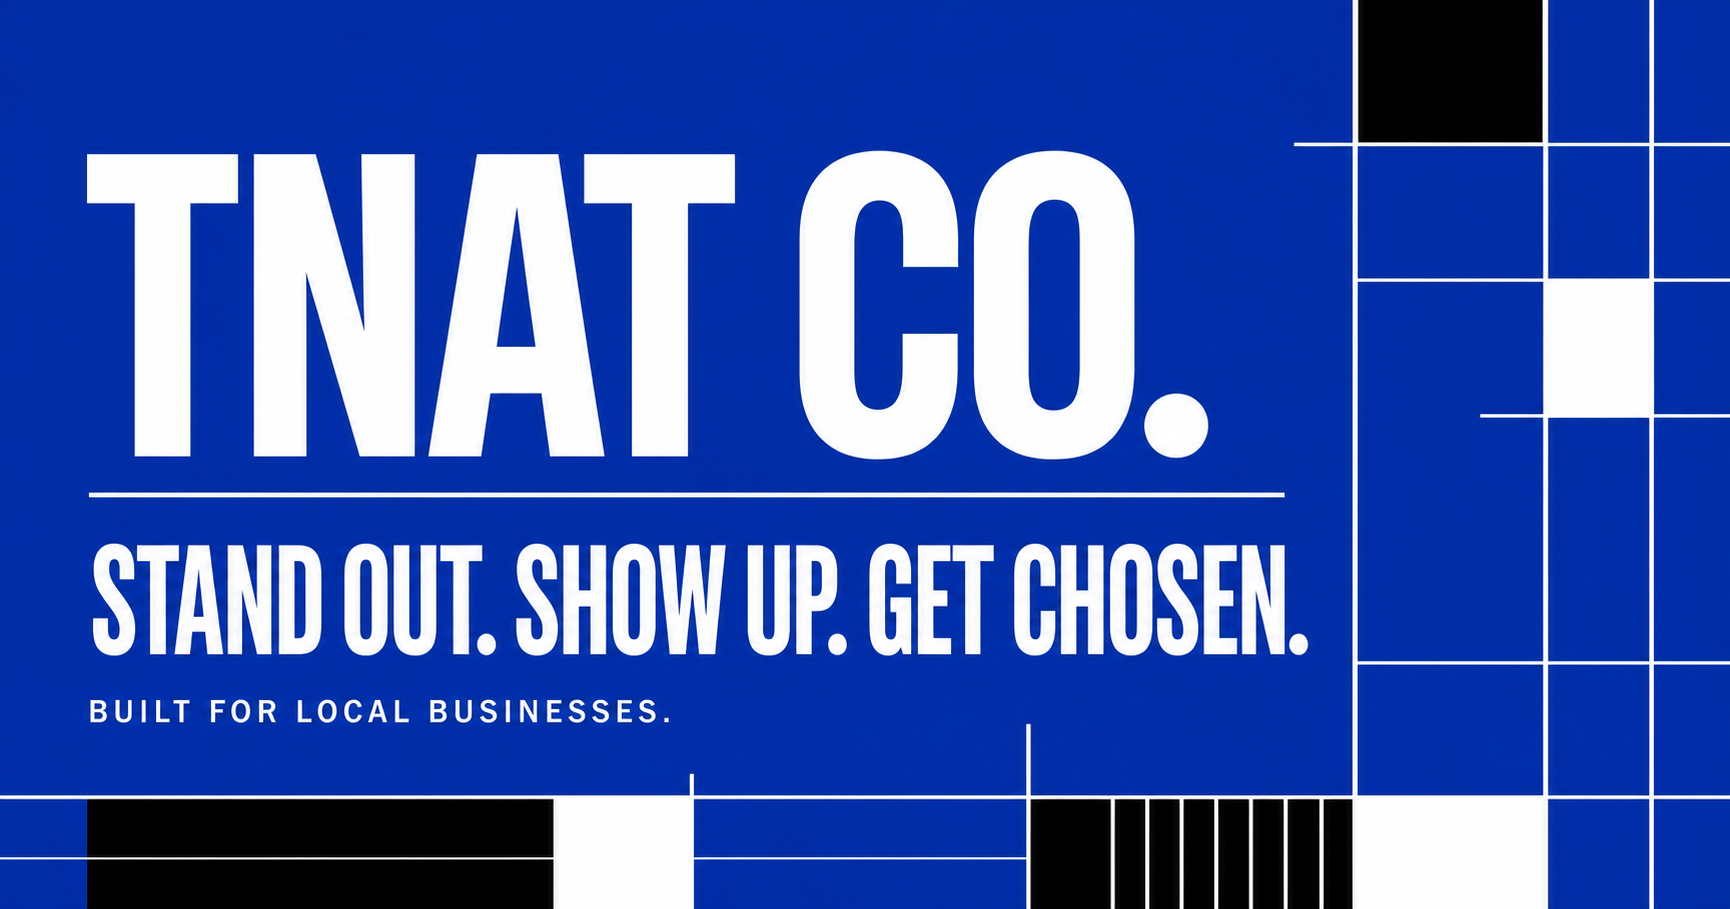
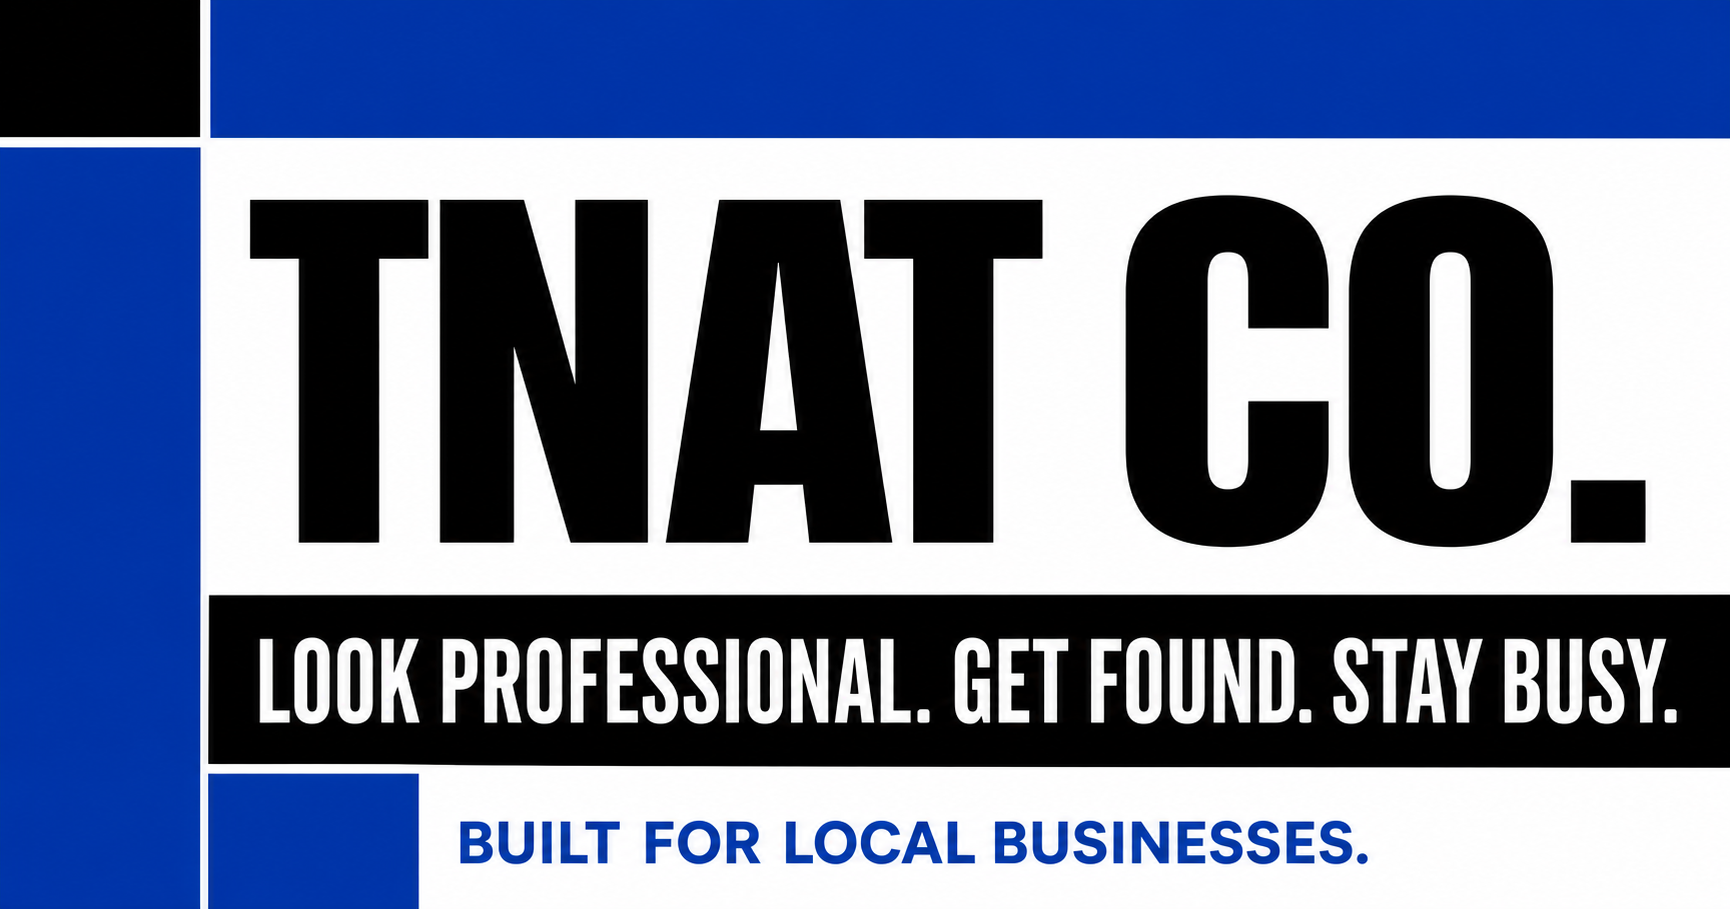
Refine TNAT content and service visuals

diff --git a/app/globals.css b/app/globals.css
@@ -23,7 +23,7 @@ img { display: block; max-width: 100%; }
 .topline strong { color: var(--blue-soft); font-weight: 800; }
 
 .site-header { height: 84px; padding: 0 4vw; display: grid; grid-template-columns: minmax(250px, 1fr) auto minmax(250px, 1fr); align-items: center; border-bottom: 1px solid var(--line); background: rgba(255,255,255,.95); position: sticky; top: 0; z-index: 30; backdrop-filter: blur(16px); }
-.brand { width: 250px; height: 76px; overflow: visible; display: flex; align-items: center; }
+.brand { width: 250px; height: 76px; overflow: hidden; display: flex; align-items: center; }
 .brand img { width: 250px; max-width: none; transform: none; }
 nav { display: flex; align-items: center; gap: 34px; font-size: 11px; font-weight: 700; text-transform: uppercase; letter-spacing: .11em; }
 nav a { padding: 12px 0 10px; border-bottom: 1px solid transparent; }
@@ -101,25 +101,26 @@ nav a:hover { border-color: var(--black); }
 .graphic-browser > div span { margin-left: 8px; color: #777; font-size: 7px; }
 .graphic-browser b { padding: 30px 20px 10px; display: block; font-size: 24px; line-height: .95; letter-spacing: -.05em; }
 .graphic-browser em { margin-left: 20px; color: var(--blue); font-size: 7px; font-style: normal; font-weight: 800; letter-spacing: .14em; }
-.graphic-local { padding: 20px; display: grid; grid-template-rows: 36px 1fr 54px; gap: 8px; }
-.local-search-bar { position: relative; z-index: 3; padding: 0 12px; display: grid; grid-template-columns: 18px 1fr auto; align-items: center; gap: 8px; border: 1px solid #aaa; background: white; box-shadow: 6px 6px 0 var(--blue); }
+.graphic-local { padding: 15px; display: flex; flex-direction: column; gap: 7px; }
+.local-search-bar { min-height: 35px; position: relative; z-index: 3; padding: 0 10px; display: grid; grid-template-columns: 18px 1fr auto; align-items: center; gap: 8px; border: 1px solid #aaa; background: white; box-shadow: 5px 5px 0 var(--blue); }
 .local-search-bar i { color: var(--blue); font-size: 15px; font-style: normal; font-weight: 800; }
 .local-search-bar span { color: #5f5f5c; font-size: 8px; font-weight: 700; letter-spacing: .04em; }
-.local-search-bar b { width: 21px; height: 21px; display: grid; place-items: center; background: var(--black); color: white; font-size: 8px; }
-.local-map { position: relative; overflow: hidden; border: 1px solid #bbb; background: #dfe5eb; }
-.local-map::before { content: ""; position: absolute; inset: -30px; background-image: linear-gradient(30deg, transparent 46%, rgba(255,255,255,.9) 47% 53%, transparent 54%), linear-gradient(-38deg, transparent 45%, rgba(255,255,255,.9) 46% 52%, transparent 53%); background-size: 92px 76px; }
-.map-road { height: 5px; position: absolute; z-index: 1; background: white; box-shadow: 0 0 0 1px rgba(0,0,0,.08); transform-origin: left center; }
-.road-one { width: 75%; left: 5%; top: 35%; transform: rotate(14deg); }
-.road-two { width: 66%; right: -12%; bottom: 27%; transform: rotate(-32deg); }
-.road-three { width: 54%; left: 20%; bottom: 13%; transform: rotate(7deg); }
-.map-pin { width: 30px; height: 30px; position: absolute; z-index: 3; left: 50%; top: 47%; display: grid; place-items: center; border-radius: 50% 50% 50% 0; background: var(--blue); box-shadow: 0 8px 15px rgba(0,31,104,.35); transform: translate(-50%,-50%) rotate(-45deg); }
-.map-pin b { width: 9px; height: 9px; border: 2px solid white; border-radius: 50%; transform: rotate(45deg); }
-.local-map em { position: absolute; z-index: 3; right: 8px; top: 8px; padding: 5px 7px; background: var(--black); color: white; font-size: 7px; font-style: normal; font-weight: 800; letter-spacing: .1em; }
-.local-result { position: relative; z-index: 3; padding: 0 10px 0 12px; display: flex; align-items: center; justify-content: space-between; gap: 10px; border: 1px solid #aaa; background: white; }
-.local-result > div { display: flex; flex-direction: column; gap: 4px; }
-.local-result > div b { font-size: 10px; letter-spacing: -.01em; }
-.local-result > div span { color: var(--blue); font-size: 7px; font-weight: 800; letter-spacing: .04em; }
-.local-result strong { padding: 6px 7px; background: var(--blue); color: white; font-size: 7px; letter-spacing: .1em; }
+.local-search-bar > b { padding: 6px 7px; background: var(--black); color: white; font-size: 6px; letter-spacing: .1em; }
+.local-listing { position: relative; z-index: 2; padding: 9px 9px 9px 0; display: grid; grid-template-columns: 38px 1fr auto; align-items: center; gap: 9px; border: 1px solid #aaa; background: white; }
+.featured-listing { min-height: 74px; border: 2px solid var(--blue); box-shadow: 7px 7px 0 rgba(0,55,179,.13); }
+.listing-rank { align-self: stretch; display: grid; place-items: center; background: var(--black); color: white; font-size: 9px; font-weight: 800; }
+.featured-listing .listing-rank { margin: -9px 0 -9px -1px; background: var(--blue); }
+.local-listing > div { display: flex; flex-direction: column; gap: 3px; }
+.local-listing > div b { font-size: 10px; }
+.local-listing > div em { color: var(--blue); font-size: 7px; font-style: normal; font-weight: 800; }
+.local-listing > div small { color: #666; font-size: 6px; font-weight: 800; letter-spacing: .07em; }
+.local-listing > strong { padding: 6px; background: var(--blue); color: white; font-size: 6px; letter-spacing: .09em; }
+.muted-listing { min-height: 42px; opacity: .58; }
+.muted-listing .listing-rank { margin: -9px 0 -9px -1px; }
+.local-signal { min-height: 27px; padding: 0 8px; display: grid; grid-template-columns: auto 1fr auto; align-items: center; gap: 9px; background: var(--black); color: white; }
+.local-signal span, .local-signal b { font-size: 6px; letter-spacing: .1em; }
+.local-signal > div { height: 4px; display: flex; gap: 3px; }
+.local-signal i { flex: 1; background: var(--blue-soft); }
 .graphic-camera { display: grid; place-items: center; }
 .graphic-camera > span { width: 155px; height: 105px; position: relative; display: grid; place-items: center; border: 3px solid var(--black); background: white; }
 .graphic-camera > span::before { content: ""; width: 50px; height: 16px; position: absolute; top: -18px; left: 19px; background: var(--black); }
@@ -187,26 +188,29 @@ nav a:hover { border-color: var(--black); }
 .photo-frame span { position: absolute; z-index: 2; left: 16px; bottom: 14px; padding-left: 25px; color: white; font-size: 8px; font-weight: 800; letter-spacing: .18em; }
 .photo-frame span::before { content: ""; width: 16px; height: 2px; position: absolute; left: 0; top: 4px; background: var(--blue-soft); }
 .frame-one { grid-row: 1 / span 2; }
-.frame-one img { object-position: 50% 50%; }
+.frame-one img { object-position: 60% 50%; }
 .frame-two img { object-position: 47% 50%; }
 .frame-three img { object-position: 52% 45%; }
-.photo-copy { min-height: 710px; padding: 105px 8vw; display: flex; flex-direction: column; justify-content: center; }
+.photo-copy { min-height: 710px; padding: 78px 7vw; display: flex; flex-direction: column; justify-content: center; }
 .photo-copy h2 { max-width: 690px; font-size: clamp(48px, 5vw, 74px); }
-.photo-copy > p:not(.section-tag) { max-width: 630px; margin: 28px 0 50px; color: rgba(255,255,255,.72); line-height: 1.7; }
-.photo-price { margin-bottom: 32px; padding: 20px 0; display: grid; grid-template-columns: 1fr auto; align-items: end; gap: 4px 20px; border-top: 1px solid rgba(255,255,255,.32); border-bottom: 1px solid rgba(255,255,255,.32); }
-.photo-price span { font-size: 11px; font-weight: 800; letter-spacing: .11em; text-transform: uppercase; }
-.photo-price strong { grid-row: 1 / span 2; grid-column: 2; font-size: 54px; line-height: .9; letter-spacing: -.06em; }
-.photo-price em { color: rgba(255,255,255,.6); font-size: 9px; font-style: normal; letter-spacing: .1em; text-transform: uppercase; }
-.photo-stats { display: grid; grid-template-columns: repeat(3, 1fr); border-top: 1px solid rgba(255,255,255,.3); }
-.photo-stats div { padding: 22px 12px 0 0; display: flex; flex-direction: column; gap: 5px; }
-.photo-stats strong { font-size: 28px; }
-.photo-stats span { color: rgba(255,255,255,.6); font-size: 9px; letter-spacing: .12em; text-transform: uppercase; }
+.photo-copy > p:not(.section-tag) { max-width: 630px; margin: 24px 0 32px; color: rgba(255,255,255,.72); line-height: 1.65; }
+.content-options { border-top: 1px solid rgba(255,255,255,.35); }
+.content-option { min-height: 82px; padding: 18px 0; display: grid; grid-template-columns: 1fr auto; align-items: center; gap: 22px; border-bottom: 1px solid rgba(255,255,255,.35); }
+.content-option > div { display: flex; flex-direction: column; gap: 6px; }
+.content-option span { color: var(--blue-soft); font-size: 8px; font-weight: 800; letter-spacing: .13em; text-transform: uppercase; }
+.content-option strong { font-size: 16px; letter-spacing: -.02em; }
+.content-option em { color: white; font-size: clamp(18px, 2vw, 30px); font-style: normal; font-weight: 800; letter-spacing: -.04em; text-align: right; }
+.content-formats { padding-top: 22px; display: flex; flex-wrap: wrap; gap: 8px; }
+.content-formats span { padding: 8px 10px; border: 1px solid rgba(255,255,255,.3); color: rgba(255,255,255,.76); font-size: 7px; font-weight: 800; letter-spacing: .1em; text-transform: uppercase; }
 .photo-copy .photo-footnote { margin: 24px 0 0; color: rgba(255,255,255,.58); font-size: 10px; }
 
 .process { padding: 130px 0 145px; position: relative; overflow: hidden; background: var(--black); color: white; }
 .process-grid { position: absolute; inset: 0; opacity: .24; background-image: linear-gradient(rgba(255,255,255,.13) 1px, transparent 1px), linear-gradient(90deg, rgba(255,255,255,.13) 1px, transparent 1px); background-size: 60px 60px; mask-image: linear-gradient(to bottom, transparent, #000 18%, #000 80%, transparent); }
 .process-inner { position: relative; z-index: 2; }
 .process .section-heading h2 { max-width: 980px; }
+.process .process-title { font-size: clamp(46px, 5.4vw, 78px); line-height: .94; letter-spacing: -.06em; }
+.process-title span { color: white; }
+.process-title em { color: var(--blue-soft); font-style: normal; }
 .process .section-heading > div > p { color: rgba(255,255,255,.58); }
 .steps { position: relative; display: grid; grid-template-columns: repeat(4, 1fr); gap: 14px; }
 .steps::before { content: ""; height: 2px; position: absolute; left: 6%; right: 6%; top: 58px; background: var(--blue); box-shadow: 0 0 24px rgba(0,55,179,.85); }
@@ -313,8 +317,9 @@ details > p { margin: -5px 40px 30px 59px; color: var(--muted); font-size: 14px;
   .photo-collage { min-height: 480px; padding: 16px; grid-template-columns: 1fr 1fr; grid-template-rows: 1.15fr .85fr; gap: 8px; }
   .frame-one { grid-column: 1 / -1; grid-row: 1; }
   .photo-copy { min-height: 620px; padding: 80px 7vw; }
-  .photo-stats { grid-template-columns: 1fr; }
-  .photo-stats div { flex-direction: row; align-items: baseline; gap: 10px; }
+  .content-option { min-height: 76px; }
+  .content-option em { font-size: 19px; }
+  .process .process-title { font-size: 43px; }
   .steps { grid-template-columns: 1fr; }
   .steps article, .steps article:nth-child(even) { min-height: 330px; transform: none; }
   .steps article:nth-child(even):hover { transform: translateY(-6px); }

diff --git a/app/page.tsx b/app/page.tsx
@@ -12,7 +12,7 @@ const services = [
   {
     number: "03",
     title: "Photography & content",
-    text: "Add an annual professional photo refresh to any plan so customers see the real people, work and proof behind the business.",
+    text: "Choose a professional photo shoot or a photo-and-video session to show the real people, work and proof behind the business.",
   },
   {
     number: "04",
@@ -84,7 +84,7 @@ const faqs = [
   ["Can you connect online booking?", "Yes. We can connect trusted booking platforms, quote forms and restaurant reservation services instead of rebuilding sensitive systems from scratch."],
   ["What if I already have photos?", "We can optimize strong existing photos for any plan. If you need fresh content later, the professional photo refresh is available as an optional add-on."],
   ["Can you update specials, photos or reviews?", "Yes. Professional and Premium include monthly edit time. Larger campaigns and frequent promotional emails can be added later."],
-  ["Do you only work with marine businesses?", "No. TNAT Co. is built for local service businesses—from marine shops and mechanics to contractors, restaurants, salons and more."],
+  ["Can I start small and upgrade later?", "Yes. You can start with a Basic website, then add ongoing management, stronger local SEO, CRM tools, photography or video as the business grows."],
 ];
 
 const inquiryHref =
@@ -95,7 +95,7 @@ export default function Home() {
     <main id="top">
       <div className="topline">
         <span>Stuart, Florida</span>
-        <strong>Stand out. Show up. Get chosen.</strong>
+        <strong>Look professional. Get found. Stay busy.</strong>
         <span>Built for local businesses</span>
       </div>
 
@@ -186,18 +186,17 @@ export default function Home() {
                 )}
                 {service.number === "02" && (
                   <div className="graphic-local">
-                    <div className="local-search-bar"><i>⌕</i><span>service near me</span><b>↗</b></div>
-                    <div className="local-map">
-                      <span className="map-road road-one" />
-                      <span className="map-road road-two" />
-                      <span className="map-road road-three" />
-                      <i className="map-pin"><b /></i>
-                      <em>3.2 MI</em>
-                    </div>
-                    <div className="local-result">
-                      <div><b>Your Business</b><span>★★★★★ · Nearby</span></div>
+                    <div className="local-search-bar"><i>⌕</i><span>best service near me</span><b>SEARCH</b></div>
+                    <div className="local-listing featured-listing">
+                      <span className="listing-rank">01</span>
+                      <div><b>Your Business</b><em>★★★★★ 4.9 · Open now</em><small>WEBSITE · CALL · DIRECTIONS</small></div>
                       <strong>TOP MATCH</strong>
                     </div>
+                    <div className="local-listing muted-listing">
+                      <span className="listing-rank">02</span>
+                      <div><b>Nearby Service</b><em>★★★★☆ 4.3 · 4.8 mi</em></div>
+                    </div>
+                    <div className="local-signal"><span>PROFILE</span><div><i /><i /><i /></div><b>READY TO BE FOUND</b></div>
                   </div>
                 )}
                 {service.number === "03" && (
@@ -261,9 +260,9 @@ export default function Home() {
           ))}
         </div>
         <div className="package-add-on">
-          <div><span>Optional annual add-on</span><strong>Photo Refresh · $299</strong></div>
-          <p>Available with any package: a 60-minute local shoot, 20 edited photos and one website image refresh.</p>
-          <a href="#photo-add-on">See the add-on ↓</a>
+          <div><span>Optional content add-on</span><strong>Photo Shoot · from $299</strong></div>
+          <p>Choose a professional photo shoot, or combine photos with short- or long-form video quoted to fit the project.</p>
+          <a href="#photo-add-on">See content options ↓</a>
         </div>
         <p className="package-note">Domains, advertising and third-party software fees are billed separately when needed. Final scope is confirmed before work begins.</p>
       </section>
@@ -277,14 +276,19 @@ export default function Home() {
         <div className="photo-copy">
           <p className="section-tag light">Optional with every package</p>
           <h2>Fresh proof that your business is the real deal.</h2>
-          <p>Add a professional content refresh when you need it. We capture the people, process, space and details customers want to see, then update the strongest images across your website.</p>
-          <div className="photo-price"><span>Annual Photo Refresh</span><strong>$299</strong><em>per session</em></div>
-          <div className="photo-stats">
-            <div><strong>60</strong><span>minute shoot</span></div>
-            <div><strong>20</strong><span>edited photos</span></div>
-            <div><strong>1</strong><span>website refresh</span></div>
+          <p>Choose the content your business needs. Book a professional photo shoot, or add video to show the people, process and work customers want to see.</p>
+          <div className="content-options">
+            <div className="content-option">
+              <div><span>Photos only</span><strong>Professional Photo Shoot</strong></div>
+              <em>$299</em>
+            </div>
+            <div className="content-option">
+              <div><span>Photo + video</span><strong>Complete Content Session</strong></div>
+              <em>Custom quote</em>
+            </div>
           </div>
-          <p className="photo-footnote">Available in the local service area. Short-form video can be quoted separately.</p>
+          <div className="content-formats"><span>Professional photos</span><span>Short-form video</span><span>Long-form video</span></div>
+          <p className="photo-footnote">Photo shoots are available in the local service area. Short-form and long-form video are quoted based on the project.</p>
         </div>
       </section>
 
@@ -294,7 +298,7 @@ export default function Home() {
           <div className="section-heading">
             <p className="section-tag light">The TNAT method</p>
             <div>
-              <h2>From first conversation to live website—without the usual mess.</h2>
+              <h2 className="process-title">From first conversation<br /><span>to live website—</span><br /><em>without the usual mess.</em></h2>
               <p>Four clear milestones. One accountable partner. You always know what is happening and what we need from you.</p>
             </div>
           </div>
@@ -355,7 +359,7 @@ export default function Home() {
         <a className="footer-brand" href="#top" aria-label="Back to top">
           <img src="/assets/tnat-co-horizontal.png" alt="TNAT Co." />
         </a>
-        <p>Custom websites and online presence for local business.</p>
+        <p>Custom websites and online presence for local businesses.</p>
         <div>
           <a href="#services">Services</a>
           <a href="#packages">Packages</a>

diff --git a/app/layout.tsx b/app/layout.tsx
@@ -7,7 +7,7 @@ export async function generateMetadata(): Promise<Metadata> {
   const host = requestHeaders.get("x-forwarded-host") ?? requestHeaders.get("host") ?? "localhost:3000";
   const protocol = requestHeaders.get("x-forwarded-proto") ?? (host.includes("localhost") ? "http" : "https");
   const imageUrl = `${protocol}://${host}/og.png`;
-  const title = "TNAT Co. | Stand Out. Show Up. Get Chosen.";
+  const title = "TNAT Co. | Look Professional. Get Found. Stay Busy.";
   const description = "Custom websites, local visibility, professional photography and simple lead systems for owner-operated local businesses.";
 
   return {
